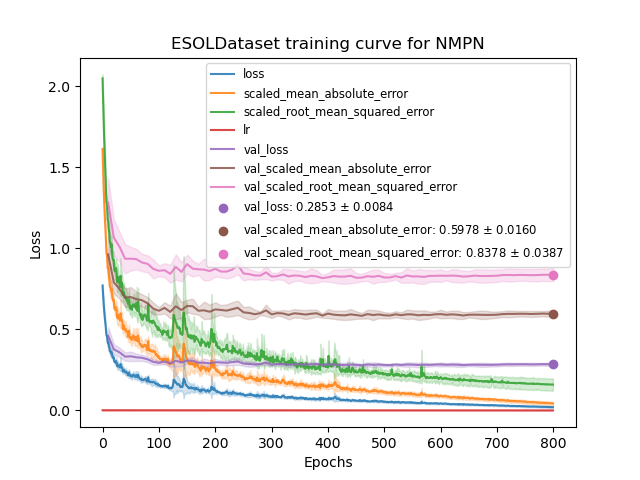
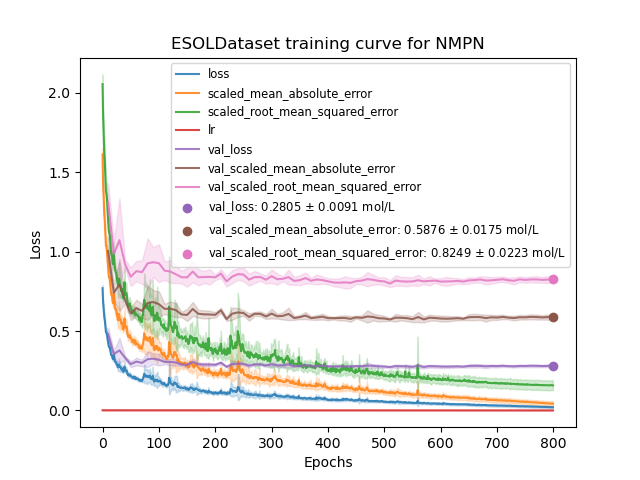
Major refactoring for version 2.0

diff --git a/training/train_moleculenet.py b/training/train_moleculenet.py
@@ -20,7 +20,7 @@ from kgcnn.utils.plots import plot_train_test_loss, plot_predict_true
 # From command line, one can specify the model, dataset and the hyper-parameters which contain all configuration
 # for training and model setup.
 parser = argparse.ArgumentParser(description='Train a GNN on a Molecule dataset.')
-parser.add_argument("--model", required=False, help="Graph model to train.", default="Megnet")
+parser.add_argument("--model", required=False, help="Graph model to train.", default="NMPN")
 parser.add_argument("--dataset", required=False, help="Name of the dataset or leave empty for custom dataset.",
                     default="ESOLDataset")
 parser.add_argument("--hyper", required=False, help="Filepath to hyper-parameter config file (.py or .json).",

diff --git a/kgcnn/literature/NMPN.py b/kgcnn/literature/NMPN.py
@@ -127,13 +127,14 @@ def make_model(inputs=None,
             out = PoolingSet2Set(**set2set_args)(out)
         else:
             out = PoolingNodes(**pooling_args)(n)
-        # final dense layers
+        # Flatten() required for to Set2Set output.
+        out = ks.layers.Flatten()(out)
         main_output = MLP(**output_mlp)(out)
     elif output_embedding == 'node':
         out = n
         main_output = GraphMLP(**output_mlp)(out)
+        # No ragged for distribution supported atm
         main_output = ChangeTensorType(input_tensor_type='ragged', output_tensor_type="tensor")(main_output)
-        # no ragged for distribution supported atm
     else:
         raise ValueError("Unsupported graph embedding for mode `NMPN`")
 

diff --git a/kgcnn/literature/INorp.py b/kgcnn/literature/INorp.py
@@ -111,6 +111,7 @@ def make_model(inputs=None,
             out = PoolingSet2Set(**set2set_args)(n)
         else:
             out = PoolingNodes(**pooling_args)(n)
+        out = ks.layers.Flatten()(out)
         main_output = MLP(**output_mlp)(out)
     elif output_embedding == 'node':
         out = n
